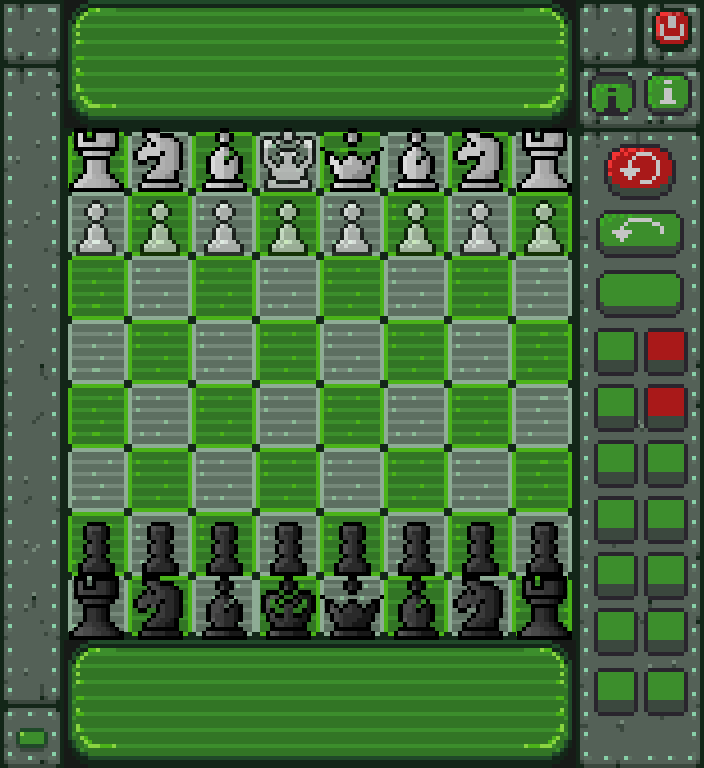
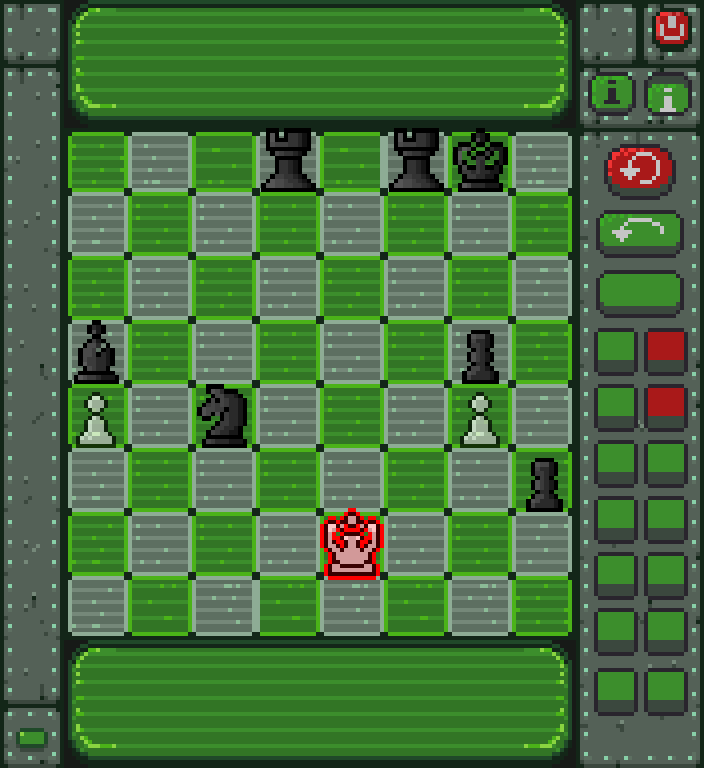
Big Update 6

diff --git a/Menus.py b/Menus.py
@@ -1,5 +1,5 @@
 import pygame
-
+import datetime
 import Gui
 import chess_globals_variable
 import constants
@@ -265,7 +265,7 @@ class ChessGame(Menu) :
         self.board_ui = pygame.transform.scale(self.board_ui, (512,512))
         self.right_ui_pos = (576,0)
         self.god_mod = False
-
+        self.deactivate_CPU = False
         self.Valid_moves = self.board.get_Valid_moves(self.board.colour_to_play)
         self.move_made = False
 
@@ -273,6 +273,7 @@ class ChessGame(Menu) :
         self.selected_case = ()
         self.computer_move = None
         self.pause_bg = None
+        self.draw_pins = False
 
         self.pause = PauseMenu(self.screen, self.pause_bg)
         self.endgame_menu = EndgameMenu(self.screen, self.pause_bg)
@@ -410,10 +411,32 @@ class ChessGame(Menu) :
                 else :
                     print("wait computer move")
 
-            self.useless_button_1.click_event(self.mx,self.my)
-            self.useless_button_2.click_event(self.mx, self.my)
-            self.useless_button_3.click_event(self.mx, self.my)
-            self.useless_button_4.click_event(self.mx, self.my)
+            if self.useless_button_1.click_event(self.mx,self.my) :
+                if self.draw_pins :
+                    self.draw_pins = False
+                    return
+                else :
+                    self.draw_pins = True
+
+            if self.useless_button_2.click_event(self.mx, self.my) :
+                for moves in self.Valid_moves :
+                    start_square = (moves.start_row, moves.start_col)
+                    end_square = (moves.end_row, moves.end_col)
+                    print("--------------------")
+                    print("Move is : {} , {}".format(start_square,end_square))
+            if self.useless_button_3.click_event(self.mx, self.my) :
+                if not self.deactivate_CPU:
+                    self.deactivate_CPU = True
+                    print("Stockfish_deactivated")
+                    return
+                else :
+                    print("Activate_Stockfish")
+                    self.deactivate_CPU = False
+            if self.useless_button_4.click_event(self.mx, self.my) :
+                date = datetime.datetime.now()
+                filename = "chess_game_{}.png".format("%s_%s_%s"%(date.hour, date.minute, date.second))
+                location = "screenshots/" + filename
+                pygame.image.save(self.screen,location)
             self.useless_button_5.click_event(self.mx, self.my)
             self.useless_button_6.click_event(self.mx, self.my)
             self.useless_button_7.click_event(self.mx, self.my)
@@ -434,11 +457,10 @@ class ChessGame(Menu) :
                     self.board.side = 'white'
 
 
-            if self.is_inside_board(self.mx, self.my) and self.board.colour_to_play == self.player_color:
+            if self.is_inside_board(self.mx, self.my) and (self.board.colour_to_play == self.player_color or self.deactivate_CPU):
                 if event.button == 1:
                     location = ((self.my - 128) // 64,
-                                (
-                                            self.mx - 64) // 64)  # on récupère la position du clic sur le board (attention il faut inverser c et r)
+                                (self.mx - 64) // 64)  # on récupère la position du clic sur le board (attention il faut inverser c et r)
                     if self.board.side == 'white':
                         row = location[0]
                         col = location[1]
@@ -457,8 +479,10 @@ class ChessGame(Menu) :
                         if self.board.get_piece_colour(self.player_clicks[0]) == self.board.colour_to_play:
                             move = chess_engine.Move(self.player_clicks[0], self.player_clicks[1], self.board.board)
                             if self.board.get_piece_type(self.player_clicks[0]) == 'king' and \
-                                    self.player_clicks[0][1] - self.player_clicks[1][1] != 1:
-                                print(self.player_clicks[1][1] - self.player_clicks[0][1])
+                                    (self.player_clicks[0][1] - self.player_clicks[1][1] != 1 and \
+                                    self.player_clicks[0][1] - self.player_clicks[1][1] != (-1)):
+                                print("{} case moves for king".format(self.player_clicks[0][1] - self.player_clicks[1][1]))
+
                                 print("roque generated from click")
                                 move.is_roque = True
                             print(self.board.current_roques_autorisation.print_roques_availables())
@@ -499,7 +523,8 @@ class ChessGame(Menu) :
         self.screen.blit(self.screen_ui, (64,0))
         self.screen.blit(self.screen_ui, (64,640))
         self.board.draw_board(self.screen)
-
+        if self.draw_pins :
+            self.board.draw_pinned_moves(self.screen, self.board.colour_to_play)
 
         self.color_switch.button_display(self.screen, self.dt)
         self.board.draw_pieces(self.screen)
@@ -521,7 +546,8 @@ class ChessGame(Menu) :
         self.useless_button_13.button_display(self.screen, self.dt)
         self.useless_button_14.button_display(self.screen, self.dt)
         self.useless_button_15.button_display(self.screen, self.dt)
-
+        if self.draw_pins:
+            self.board.draw_pinned_moves(self.screen, self.board.colour_to_play)
 
         if self.player_clicks != []:
             self.board.draw_moves(self.screen, self.Valid_moves, self.player_clicks[0])
@@ -535,7 +561,7 @@ class ChessGame(Menu) :
         pygame.display.flip()
 
     def events(self):
-        if self.board.colour_to_play != self.player_color :
+        if self.board.colour_to_play != self.player_color and self.deactivate_CPU == False :
             print("computer is playing")
             fen = self.board.get_FEN()
             self.computer_move = self.board.do_best_move(fen)

diff --git a/chess_engine.py b/chess_engine.py
@@ -484,6 +484,8 @@ class ChessBoard:
                 pass
         return False
 
+
+
     def get_Valid_moves(self, colour):
         '''
         Valid move est la méthode de génération des moves définitifs, elle sert de relation entre la méthode naive de génération
@@ -549,6 +551,40 @@ class ChessBoard:
 
     # cet algorithme plus élégant ne recalcule plus tous le coups de l'adversaire pour voir si le roi est en echecs en traquant sa position
     # mais il part de la position du roi pour savoir si une pièce ennemi peut l'attaquer
+    def draw_pinned_moves(self, screen, colour):
+        incheck, clouages, checks  = self.check_for_pins_and_checks(colour)
+        for pins in clouages :
+            if self.side == "white":
+                rect = pygame.Rect(pins[1] * 64 + constants.board_offset[0],
+                                   pins[0] * 64 + constants.board_offset[1],
+                                   64,
+                                   64)
+
+                screen.blit(constants.image_pin, rect)
+            elif self.side == 'black':
+                rect = pygame.Rect(constants.turn_board[pins[1]] * 64 + constants.board_offset[0],
+                                   constants.turn_board[pins[0]] * 64 + constants.board_offset[1],
+                                   64,
+                                   64)
+                screen.blit(constants.image_pin, rect)
+        if incheck :
+            for echecs in checks :
+                check_square = (echecs[0], echecs[1])
+                direction = (echecs[2], echecs[3])
+                if self.side == "white":
+                    rect = pygame.Rect(echecs[1] * 64 + constants.board_offset[0],
+                                       echecs[0] * 64 + constants.board_offset[1],
+                                       64,
+                                       64)
+
+                    screen.blit(constants.image_check, rect)
+                elif self.side == 'black':
+                    rect = pygame.Rect(constants.turn_board[echecs[1]] * 64 + constants.board_offset[0],
+                                       constants.turn_board[echecs[0]] * 64 + constants.board_offset[1],
+                                       64,
+                                       64)
+                    screen.blit(constants.image_check, rect)
+
 
     def check_for_pins_and_checks(self, colour):
         clouage = []  # contient les cases clouées par l'adversaire

diff --git a/constants.py b/constants.py
@@ -157,6 +157,12 @@ image_attack = pygame.image.load("assets/board/export/Attack_move.png")
 image_attack = pygame.transform.scale(image_attack, (64,64))
 image_roque = pygame.image.load("assets/board/export/Roque_move.png")
 image_roque = pygame.transform.scale(image_roque, (64,64))
+image_pin = pygame.image.load("assets/board/export/Pinned_square.png")
+image_pin = pygame.transform.scale(image_pin, (64,64))
+image_pin_direction = pygame.image.load("assets/board/export/Pinned_direction_square.png")
+image_pin_direction = pygame.transform.scale(image_pin_direction, (64,64))
+image_check =  pygame.image.load("assets/board/export/Checking_square.png")
+image_check = pygame.transform.scale(image_check, (64,64))
 board_offset = (64, 128)
 
 board_position = (576, 640)
